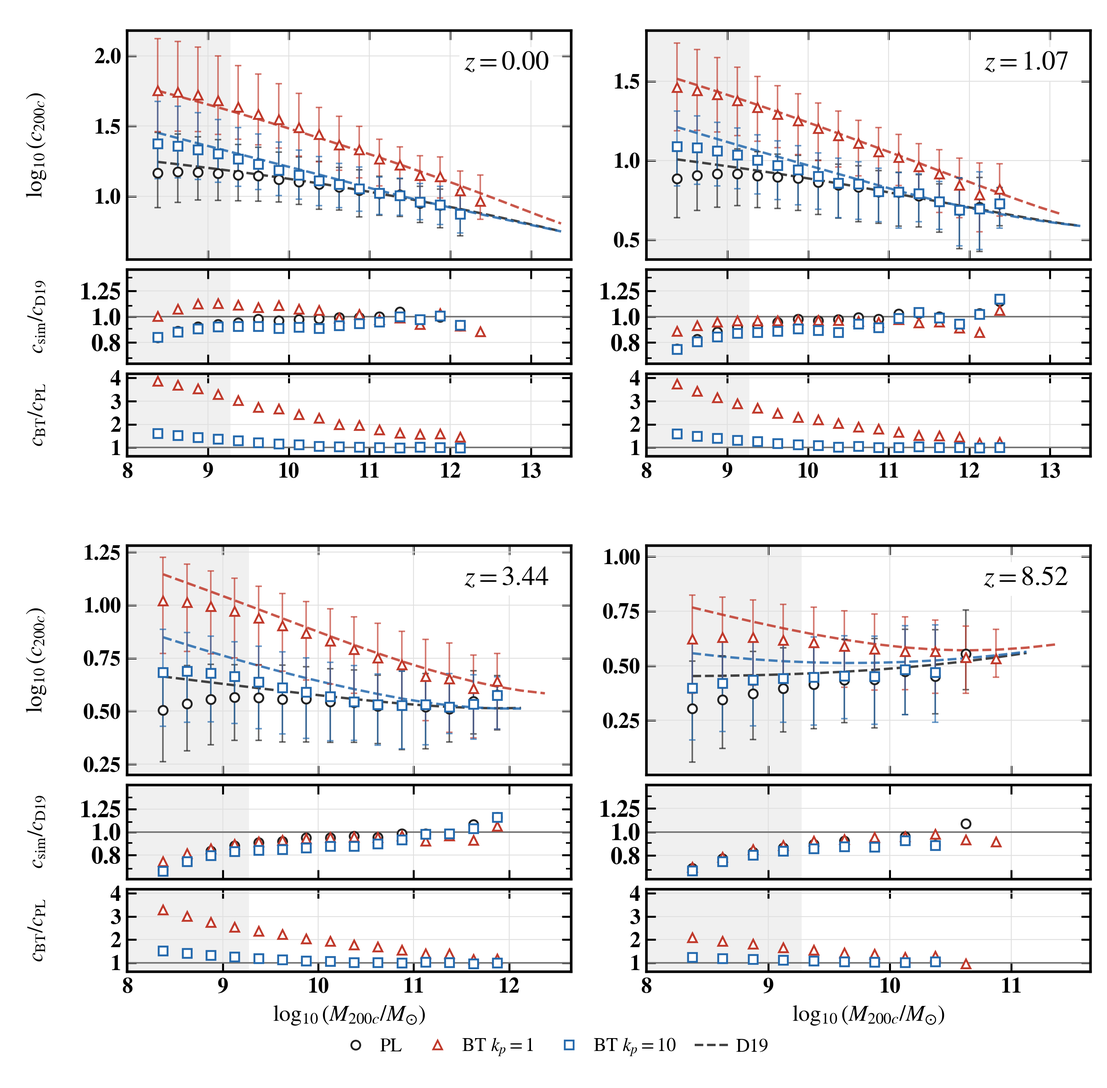
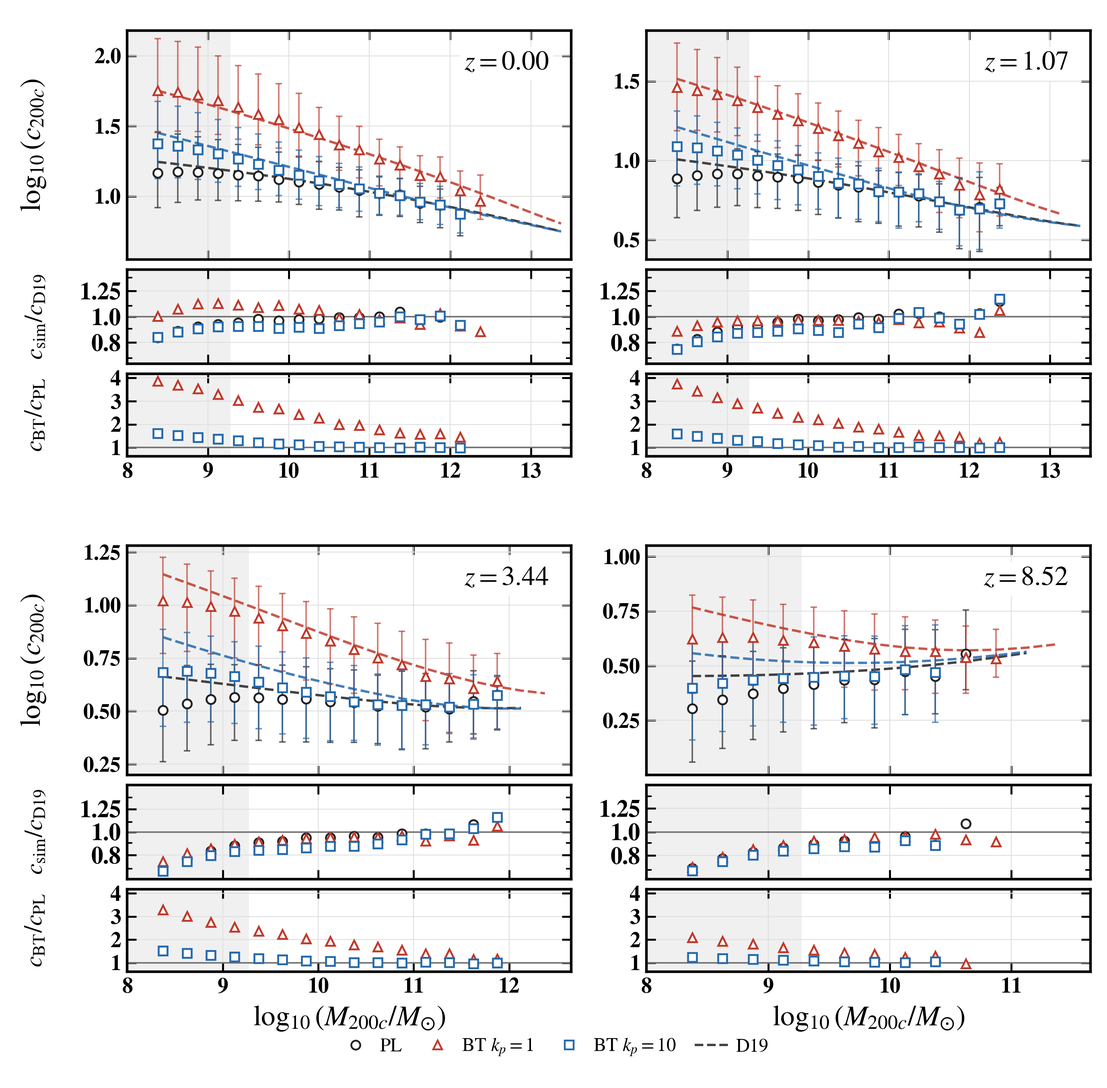
Clarify bias and formation-time errors and enlarge figure labels

diff --git a/main.tex b/main.tex
@@ -23,7 +23,7 @@
 \usepackage{multirow}
 \usepackage{xurl}
 \usepackage{xcolor}
-\DeclareRobustCommand{\change}[1]{#1}
+\DeclareRobustCommand{\change}[1]{\textcolor{blue}{#1}}
 \newcommand{\tabcell}[2]{\parbox[t]{#1}{\raggedright #2}}
 \usepackage{hyperref}
 \usepackage{orcidlink}
@@ -99,7 +99,7 @@
 
 % ===== Abstract ===== #
 \begin{abstract}
-The primordial power spectrum is well constrained on large scales but remains uncertain on small scales. We use dark-matter-only cosmological \(N\)-body simulations initialized with the same random phases to determine how enhanced small-scale power changes nonlinear structure formation. We compare a standard power-law (PL) model with two broken-power-law blue-tilted (BT) models whose spectra steepen above pivot wavenumbers \(k_p=1\) and \(10\,h\,{\rm Mpc}^{-1}\). We measure halo mass functions, \change{halo--matter bias,} assembly histories, radial density profiles, concentration--mass relations, and nonlinear matter power spectra. Enhanced small-scale power increases the abundance of low-mass halos at high redshift, lowers the bias of fixed-mass halos at high redshift, shifts halo assembly earlier, and increases the concentrations of low-mass halos. The \(k_p=1\,h\,{\rm Mpc}^{-1}\) model also produces denser resolved inner halo profiles. These effects are stronger in the \(k_p=1\,h\,{\rm Mpc}^{-1}\) model than in the \(k_p=10\,h\,{\rm Mpc}^{-1}\) model and weaken toward higher halo masses and lower redshifts. The nonlinear matter power enhancement grows toward higher redshift and higher wavenumber. Published mass-function, concentration, and mass-assembly prescriptions reproduce the broad trends, but their agreement with the simulations varies with redshift and halo mass. These dark-matter-only results can be used in studies that include baryonic physics and observational selection.
+The primordial power spectrum is well constrained on large scales but remains uncertain on small scales. We use dark-matter-only cosmological \(N\)-body simulations initialized with the same random phases to determine how enhanced small-scale power changes nonlinear structure formation. We compare a standard power-law (PL) model with two broken-power-law blue-tilted (BT) models whose spectra steepen above pivot wavenumbers \(k_p=1\) and \(10\,h\,{\rm Mpc}^{-1}\). We measure halo mass functions, \change{halo bias,} assembly histories, radial density profiles, concentration--mass relations, and nonlinear matter power spectra. Enhanced small-scale power increases the abundance of low-mass halos at high redshift, lowers the bias of fixed-mass halos at high redshift, shifts halo assembly earlier, and increases the concentrations of low-mass halos. The \(k_p=1\,h\,{\rm Mpc}^{-1}\) model also produces denser resolved inner halo profiles. These effects are stronger in the \(k_p=1\,h\,{\rm Mpc}^{-1}\) model than in the \(k_p=10\,h\,{\rm Mpc}^{-1}\) model and weaken toward higher halo masses and lower redshifts. The nonlinear matter power enhancement grows toward higher redshift and higher wavenumber. Published mass-function, concentration, and mass-assembly prescriptions reproduce the broad trends, but their agreement with the simulations varies with redshift and halo mass. These dark-matter-only results can be used in studies that include baryonic physics and observational selection.
 
 \end{abstract}
 
@@ -116,7 +116,7 @@ Small-scale enhancements of the primordial power spectrum arise in several class
 We use broken-power-law blue-tilted spectra to study how enhanced small-scale primordial power changes nonlinear structure formation. Here, ``blue-tilted'' (BT) refers specifically to a broken-power-law enhancement whose small-scale slope is steeper than the PL slope, following previous small-scale-power studies \citep[e.g.][]{Hirano15BlueTiltedPPS,Parashari23JWSTPPS,Hira24bluetilt,Tkac24BumpyPPS,deKruijf25DarkAges,Dekker25DwarfPPS,Wu25BT}.
 
 
-\change{We follow three dark-matter-only cosmological \(N\)-body models with matched initial phases to \(z=0\), comparing a standard power-law spectrum with two BT spectra. Sections~\ref{sec:theory} and \ref{sec:numerical} describe the spectra and simulations. In Sec.~\ref{sec:results}, we measure the halo mass function (HMF), halo--matter bias, assembly histories, radial density profiles, concentrations, and the nonlinear matter power spectrum. For the mass functions, concentrations, and assembly histories, we evaluate published prescriptions using each model's linear spectrum and the published parameters. Section~\ref{sec:discussion} discusses the physical trends, observational implications, and numerical limits.}
+\change{We follow three dark-matter-only cosmological \(N\)-body models with matched initial phases to \(z=0\), comparing a standard power-law spectrum with two BT spectra. Sections~\ref{sec:theory} and \ref{sec:numerical} describe the spectra and simulations. In Sec.~\ref{sec:results}, we measure the halo mass function (HMF), halo bias, assembly histories, radial density profiles, concentrations, and the nonlinear matter power spectrum. For the mass functions, concentrations, and assembly histories, we evaluate published prescriptions using each model's linear spectrum and the published parameters. Section~\ref{sec:discussion} discusses the physical trends, observational implications, and numerical limits.}
 
 \section{Power-Spectrum Models and Linear Matter Power}
 \label{sec:theory}
@@ -199,7 +199,7 @@ As an initial-condition consistency test, we compare the BT pivot scales with th
 
 
 
-\change{PL denotes the standard power-law primordial spectrum. Both BT models have \(m_s=1.5\), with \(k_p=1\,h\,{\rm Mpc}^{-1}\) for \BTKPone{} and \(k_p=10\,h\,{\rm Mpc}^{-1}\) for \BTKPten{}. We also use \(256\,h^{-1}{\rm Mpc}\) PL, \BTKPone{}, and \BTKPten{} runs for the halo--matter bias measurement. The power-spectrum measurements from these runs are available in the auxiliary data. Figure~\ref{fig:power_spectra_ratio_z0} uses the \(25\,h^{-1}{\rm Mpc}\) runs. The particle masses in Table~\ref{tab:simulation_parameters} are given in \(h^{-1}M_\odot\). For \(h=0.6736\), the particle mass in the \(25\,h^{-1}{\rm Mpc}\) runs is \(1.89\times10^6\,M_\odot\). Halo masses and comoving number densities in the mass-function analysis are given in \(M_\odot\) and \({\rm Mpc}^{-3}\), respectively. The additional PL runs used for resolution and volume tests are described in Appendix~\ref{app:fof_hmf_resolution}. Appendix~\ref{app:trusted_ranges} and Table~\ref{tab:trusted_ranges} list the ranges used for quantitative statements.}
+\change{PL denotes the standard power-law primordial spectrum. Both BT models have \(m_s=1.5\), with \(k_p=1\,h\,{\rm Mpc}^{-1}\) for \BTKPone{} and \(k_p=10\,h\,{\rm Mpc}^{-1}\) for \BTKPten{}. We also use \(256\,h^{-1}{\rm Mpc}\) PL, \BTKPone{}, and \BTKPten{} runs for the halo bias measurement. The power-spectrum measurements from these runs are available in the auxiliary data. Figure~\ref{fig:power_spectra_ratio_z0} uses the \(25\,h^{-1}{\rm Mpc}\) runs. The particle masses in Table~\ref{tab:simulation_parameters} are given in \(h^{-1}M_\odot\). For \(h=0.6736\), the particle mass in the \(25\,h^{-1}{\rm Mpc}\) runs is \(1.89\times10^6\,M_\odot\). Halo masses and comoving number densities in the mass-function analysis are given in \(M_\odot\) and \({\rm Mpc}^{-3}\), respectively. The additional PL runs used for resolution and volume tests are described in Appendix~\ref{app:fof_hmf_resolution}. Appendix~\ref{app:trusted_ranges} and Table~\ref{tab:trusted_ranges} list the ranges used for quantitative statements.}
 
 
 \begin{table*}[t]
@@ -280,9 +280,6 @@ We adopt the plotted catalog lower limit \(M_{\rm FOF}\ge10^8\,M_\odot\) listed 
 Within the resolved mass range, both blue-tilted models increase the low-mass FOF abundance relative to PL, with the largest enhancement in \BTKPone{}. The enhancement is largest at high redshift. For \BTKPone{}, the abundance ratio relative to PL is \(4.81\)--\(6.55\) over \(M_{\rm FOF}\simeq1.2\times10^9\)--\(1.2\times10^{10}\,M_\odot\) at \(z=8.52\). By \(z=0\), the ratio over the same mass range falls to \(1.42\)--\(1.48\). The BT/PL ratio decreases toward higher masses and lower redshifts.
 
 
-%We use the Reed et al. (2007) FOF fitting function as published, without refitting its multiplicity function. \revisionblue{For each model, \(\sigma(M,z)\) is computed from its own PL, \BTKPone{}, or \BTKPten{} linear matter power spectrum.}
-
-
 \begin{figure*}[tbp]
     \centering
     \includegraphics[width=\textwidth]{mass-function.png}
@@ -303,12 +300,12 @@ We quantify the agreement using the median simulation-to-model ratio across mass
     \label{fig:m200c_bocquet16_hmf}
 \end{figure*}
 
-\subsection{Halo--Matter Bias\label{subsec:halo_bias}}
+\subsection{Halo Bias\label{subsec:halo_bias}}
 
 \begin{figure*}[tbp]
     \centering
     \includegraphics[width=\textwidth]{halo-bias-soap-tinker10.pdf}
-    \caption{\change{Halo--matter bias of \textsc{HBT-HERONS} central halos binned by their \textsc{SOAP} masses \(M_{200m}\) at \(z=0\), \(1.07\), \(3.44\), and \(8.52\). Open circles show measurements from the \(256\,h^{-1}{\rm Mpc}\) boxes and open triangles show measurements from the \(25\,h^{-1}{\rm Mpc}\) boxes. Error bars show jackknife uncertainties obtained by omitting one independent Fourier mode at a time. The upper panels show measured bias and the Tinker et al. (2010) \protect\cite{Tinker2010HaloBias} prediction. The middle panels show \(b_{\rm BT}/b_{\rm PL}\), with measured ratios at the centers of mass bins shared by BT and PL in the same box. The lower panels show \(b_{\rm sim}/b_{\rm T10}-1\), with the prediction evaluated at each bin's median mass. Large-box points are included for all three models (PL, \BTKPone{}, and \BTKPten{}) through \(z=3.44\), while at \(z=8.52\) no mass bin in the \(256\,h^{-1}{\rm Mpc}\) box meets the \(\ge200\)-halo threshold.}}
+    \caption{\change{Halo bias of \textsc{HBT-HERONS} central halos binned by their \textsc{SOAP} masses \(M_{200m}\) at \(z=0\), \(1.07\), \(3.44\), and \(8.52\). Open circles show measurements from the \(256\,h^{-1}{\rm Mpc}\) boxes and open triangles show measurements from the \(25\,h^{-1}{\rm Mpc}\) boxes. Error bars show jackknife uncertainties obtained by omitting one independent Fourier mode at a time. The upper panels show measured bias and the Tinker et al. (2010) \protect\cite{Tinker2010HaloBias} prediction. The middle panels show \(b_{\rm BT}/b_{\rm PL}\), with measured ratios at the centers of mass bins shared by BT and PL in the same box. The lower panels show \(b_{\rm sim}/b_{\rm T10}-1\), with the prediction evaluated at each bin's median mass. Large-box points are included for all three models (PL, \BTKPone{}, and \BTKPten{}) through \(z=3.44\), while at \(z=8.52\) no mass bin in the \(256\,h^{-1}{\rm Mpc}\) box meets the \(\ge200\)-halo threshold.}}
     \label{fig:halo_bias}
 \end{figure*}
 
@@ -319,12 +316,18 @@ Halo bias is a measure of the excess clustering of halos over that of dark matte
                        {\sum_{\boldsymbol{k}} P_{\rm mm}(\boldsymbol{k})},
     \label{eq:halo_matter_bias}
 \end{equation}
-where the sums run over independent Fourier modes in the selected \(k\) interval. We use \(0.03\leq k/(h\,{\rm Mpc}^{-1})\leq0.15\) for the \(256\,h^{-1}{\rm Mpc}\) box and \(0.25\leq k/(h\,{\rm Mpc}^{-1})\leq0.60\) for the \(25\,h^{-1}{\rm Mpc}\) box. Each halo contains at least 100 dark matter particles, and each \(0.30\)-dex mass bin contains at least 200 halos. We plot the median mass in each bin. \change{Figure~\ref{fig:halo_bias} shows \textsc{HBT-HERONS} central halos \citep{Han2018HBTPlus,Victor25HBTHERONS}, using their \textsc{SOAP} mass \(M_{200m}\) enclosed at 200 times the mean matter density. Appendix~\ref{app:fof_bias} gives the corresponding FOF measurements.}
+where the sums run over independent Fourier modes in the selected \(k\) interval. \change{For the error bars on individual bias measurements, we recompute Eq.~\eqref{eq:halo_matter_bias} after omitting each mode in turn and take the jackknife standard error across these estimates. This measures mode sampling within a single simulation volume.} We use \(0.03\leq k/(h\,{\rm Mpc}^{-1})\leq0.15\) for the \(256\,h^{-1}{\rm Mpc}\) box and \(0.25\leq k/(h\,{\rm Mpc}^{-1})\leq0.60\) for the \(25\,h^{-1}{\rm Mpc}\) box. Each halo contains at least 100 dark matter particles, and each \(0.30\)-dex mass bin contains at least 200 halos. We plot the median mass in each bin. \change{Figure~\ref{fig:halo_bias} shows \textsc{HBT-HERONS} central halos \citep{Han2018HBTPlus,Victor25HBTHERONS}, using their \textsc{SOAP} mass \(M_{200m}\) enclosed at 200 times the mean matter density. Appendix~\ref{app:fof_bias} gives the corresponding FOF measurements.}
 
-\change{We evaluate the \citet{Tinker2010HaloBias} relation at \(\nu=\delta_{\rm c}/\sigma(M,z)\), with \(\delta_{\rm c}=1.686\), using the \(200\bar\rho_{\rm m}\) calibration. We compute \(\sigma(M,z)\) from each model's linear matter power spectrum with a spherical top-hat window whose comoving radius encloses mass \(M\) at the present mean matter density. Under peak-background split, enhanced small-scale power increases \(\sigma(M,z)\) and lowers the peak height \(\nu\) at fixed halo mass, reducing halo rarity and lowering the bias most strongly in \BTKPone{} at high redshift. At \(z=8.52\), the median \BTKPone{}/PL bias ratio is \(0.54\) across the five common mass bins in the smaller box. In the \(256\,h^{-1}{\rm Mpc}\) box over \(z=0\)--\(3.44\), \BTKPten{}/PL remains between \(0.988\) and \(1.009\) across all 23 paired bins, providing a large-scale consistency check because \(k_{\rm Ny}\simeq12.6\,h\,{\rm Mpc}^{-1}\) lies near \(k_p=10\,h\,{\rm Mpc}^{-1}\) and the resolved halo masses lie well above \(M_p(\BTKPten{})\). At \(z=0\), the \(256\,h^{-1}{\rm Mpc}\) \textsc{SOAP} central measurements lie \(10\%\)--\(18\%\) below Tinker10 over \(5\times10^{11}\lesssim M_{200m}/M_\odot\lesssim4\times10^{13}\) (before turning slightly positive near \(2.5\times10^{14}\,M_\odot\)). This offset is not a particle-resolution artifact (high-mass \(25\,h^{-1}{\rm Mpc}\) centrals with \(\sim10^5\) particles show the same negative offset), but reflects two physical and estimator effects: (i) \textsc{HBT-HERONS} classifies backsplash and outer-FOF halos near massive groups as satellites, excluding a strongly biased population (\(b\sim1.6\)) relative to distinct-SO halo finders on which Tinker10 was calibrated, and (ii) mode-count weighting in Eq.~\eqref{eq:halo_matter_bias} concentrates 73\% of the \(256\,h^{-1}{\rm Mpc}\) modes in \(0.10\le k/(h\,{\rm Mpc}^{-1})\le0.15\), where quasi-nonlinear scale dependence suppresses \(b_{\rm hm}(k)\) for low-\(\nu\) halos; similarly, in the \(25\,h^{-1}{\rm Mpc}\) box, \(0.25\le k\le0.60\,h\,{\rm Mpc}^{-1}\) spans only \(1.0\)--\(2.4\,k_{\rm f}\) (28 modes) and enters the nonlinear regime at \(z\le1.07\). Leave-one-mode-out jackknife uncertainties quantify within-box mode sampling and halo stochasticity under an independent-mode assumption; they omit cosmic realization variance, super-sample covariance, and residual scale dependence, and the uncertainty of the measured BT/PL ratios further depends on the covariance between the phase-matched runs. Comparisons at \(z=3.44\) and \(8.52\) extend beyond the Tinker calibration range of \(z\le2.5\).}
+\change{We evaluate the \citet{Tinker2010HaloBias} relation at \(\nu=\delta_{\rm c}/\sigma(M,z)\), with \(\delta_{\rm c}=1.686\), using the \(200\bar\rho_{\rm m}\) calibration. We compute \(\sigma(M,z)\) from each model's linear matter power spectrum with a spherical top-hat window whose comoving radius encloses mass \(M\) at the present mean matter density. }
+
+\change{Under peak-background split, enhanced small-scale power increases \(\sigma(M,z)\) and lowers the peak height \(\nu\) at fixed halo mass, reducing halo rarity and lowering the bias most strongly in \BTKPone{} at high redshift. At \(z=8.52\), the median \BTKPone{}/PL bias ratio is \(0.54\) across the five common mass bins in the smaller box. In the \(256\,h^{-1}{\rm Mpc}\) box over \(z=0\)--\(3.44\), \BTKPten{}/PL remains between \(0.988\) and \(1.009\) across all 23 paired bins. }
+
+\change{At \(z=0\), the \(256\,h^{-1}{\rm Mpc}\) \textsc{SOAP} central measurements lie \(10\%\)--\(18\%\) below Tinker10 over \(5\times10^{11}\lesssim M_{200m}/M_\odot\lesssim4\times10^{13}\) (before turning slightly positive near \(2.5\times10^{14}\,M_\odot\)). This offset is not a particle-resolution artifact (high-mass \(25\,h^{-1}{\rm Mpc}\) centrals with \(\sim10^5\) particles show the same negative offset), but reflects two physical and estimator effects: (i) \textsc{HBT-HERONS} classifies backsplash and outer-FOF halos near massive groups as satellites, excluding a strongly biased population (\(b\sim1.6\)) relative to distinct-SO halo finders on which Tinker10 was calibrated, and (ii) mode-count weighting in Eq.~\eqref{eq:halo_matter_bias} concentrates 73\% of the \(256\,h^{-1}{\rm Mpc}\) modes in \(0.10\le k/(h\,{\rm Mpc}^{-1})\le0.15\), where quasi-nonlinear scale dependence suppresses \(b_{\rm hm}(k)\) for low-\(\nu\) halos; similarly, in the \(25\,h^{-1}{\rm Mpc}\) box, \(0.25\le k\le0.60\,h\,{\rm Mpc}^{-1}\) spans only \(1.0\)--\(2.4\,k_{\rm f}\) (28 modes) and enters the nonlinear regime at \(z\le1.07\).} 
+
+%\change{Leave-one-mode-out jackknife uncertainties quantify within-box mode sampling and halo stochasticity under an independent-mode assumption; they omit cosmic realization variance, super-sample covariance, and residual scale dependence, and the uncertainty of the measured BT/PL ratios further depends on the covariance between the phase-matched runs. Comparisons at \(z=3.44\) and \(8.52\) extend beyond the Tinker calibration range of \(z\le2.5\).}
 
 \subsection{Half-Mass Redshift\label{subsub:HMR}}
-\change{The half-mass assembly redshift, \(z_{1/2}\), is the redshift at which a \(z=0\) halo first reaches half of its final FOF mass \(M_0\). We use the main progenitor branch defined in Sec.~\ref{subsec:halo_catalogs}. For each \(z=0\) FOF halo, we follow its persistent \textsc{HBT-HERONS} \texttt{TrackId} over 36 snapshots (0021--0056, extending above the \(z=19.41\) snapshot 0024 down to \(z=0\)) and record its Warren-corrected FOF mass. Pooling the final-mass bins with \(M_0\ge 10^9\,M_\odot\) separately for each model, we measure \(z_{1/2}\) for approximately \(98\%\) of the halos in each simulation. We determine \(z_{1/2}\) by linear interpolation between the first pair of consecutive snapshots in which the recorded FOF mass increases through \(M_0/2\). The same procedure is applied to PL, \BTKPone{}, and \BTKPten{}.}
+\change{The half-mass assembly redshift, \(z_{1/2}\), is the redshift at which a \(z=0\) halo first reaches half of its final FOF mass \(M_0\). We use the main progenitor branch defined in Sec.~\ref{subsec:halo_catalogs}. For each \(z=0\) FOF halo, we follow its persistent \textsc{HBT-HERONS} \texttt{TrackId} over 36 snapshots (0021--0056, extending above the \(z=19.41\) snapshot 0024 down to \(z=0\)) and record its Warren-corrected FOF mass. Pooling the final-mass bins with \(M_0\ge 10^9\,M_\odot\) separately for each model, we measure \(z_{1/2}\) for approximately \(98\%\) of the halos in each simulation. We determine \(z_{1/2}\) by linear interpolation between the first pair of consecutive snapshots in which the recorded FOF mass increases through \(M_0/2\). We estimate the uncertainty on the mean formation redshift from 4096 bootstrap resamples of the halos in each mass bin, separately for PL, \BTKPone{}, and \BTKPten{}.}
 
 We do not fill missing snapshots or force the recorded mass histories to increase monotonically. Temporary FOF bridging or splitting events can therefore remove a halo from the measurable sample or produce a temporary mass decrease.
 
@@ -345,15 +348,9 @@ For the 15 resolved PL bins spanning \(1.25\times10^9\le M_{\rm FOF}/M_\odot\le8
 
 \subsection{Median Mass-Assembly Histories\label{subsub:MAH}}
 
-%The half-mass redshift reduces each halo history to one number.
-
 Figure~\ref{fig:mass_assembly_history_correa} shows the median mass-assembly histories. We use \(M_0\) for the final FOF mass at the center of a selection window and \(M(z)\) for the corresponding main-progenitor FOF mass at redshift \(z\). We select halos at \(z=0\) in six Warren-corrected FOF mass windows with \(|\log_{10}[M_{\rm FOF}(z=0)/M_0]|\le0.1\). The windows are centered on \(M_0=10^9\), \(3\times10^9\), \(10^{10}\), \(3\times10^{10}\), \(10^{11}\), and \(3\times10^{11}\,M_\odot\). We follow the main progenitor of each selected halo through its persistent \texttt{TrackId} from \textsc{HBT-HERONS}. For visual clarity across the six mass windows, this comparison shows PL and \BTKPone{} (the intermediate \BTKPten{} model closely tracks PL at these masses).
 
-%\Tk{The paragragh is unclear: what is cumulative-maximum filter? ``Missing detections'' sounds odd.}
-
 At each snapshot, only halos with an identified main progenitor contribute to the median \(M_{\rm FOF}(z)\). We do not interpolate across snapshots in which a progenitor is not identified. The number of contributing halos therefore decreases with redshift. We restrict the quantitative comparison to \(M_0\ge10^9\,M_\odot\) and \(z\le6\); for PL at \(M_0=10^9\,M_\odot\), the detected fraction is \(90.3\%\) at \(z=5.50\) and drops to \(83.6\%\) at \(z=6.15\) (and \(60.5\%\) at \(z=7.65\)), whereas for \BTKPone{} it remains \(>99\%\) at \(z\ge5.5\). Consequently, conditional medians for PL near \(M_0=10^9\,M_\odot\) and \(z\sim6\) are biased upward by left-truncation survivorship near the 20-particle detection floor.
-
-%\Tk{cite  (Bond et al. 1991; Lacey \& Cole 1993) for EPS}
 
 \change{We compare these histories with the \citet{Correa2015MAHI} mass-assembly model. This model is based on the extended Press--Schechter (EPS) framework \citep{Bond1991ExcursionSet,LaceyCole1993MergerRates}.}
 
@@ -368,7 +365,6 @@ f(M_0)=\left[S(M_0/q)-S(M_0)\right]^{-1/2},
 where \(S(M)=\sigma^2(M)\) is the variance of the linear density contrast at \(z=0\), smoothed with a spherical top-hat filter. Thus \(\sigma(M)\) is the root-mean-square density contrast on mass scale \(M\). The filter radius encloses mass \(M\) at the present mean matter density. We compute this variance from the corresponding PL or \BTKPone{} linear matter power spectrum.
 
 The published mass-dependent relations for \(\widetilde z_{\rm f}\) and \(q\) are
-%\Tk{Need to say what are q; i.e. the numerical form of q.}
 \begin{equation}
 \begin{aligned}
 \widetilde z_{\rm f}&=-0.0064\left(\log_{10}\frac{M_0}{M_\odot}\right)^2
@@ -383,7 +379,7 @@ For the Correa-EPS curves, we use the Planck 2018 cosmology in Sec.~\ref{subsec:
 
 
 At fixed final FOF mass, both the simulations and the Correa-EPS calculation predict larger progenitor masses for \BTKPone{} than for PL. The difference increases with redshift, indicating earlier assembly in \BTKPone{}. With this fixed-parameter baseline, the Correa-EPS calculation lies closer to the simulated \BTKPone{} conditional medians than to PL, particularly near \(M_0=10^9\,M_\odot\) at \(z=6\) where PL suffers progenitor truncation. For \(10^9\le M_0/M_\odot\le10^{11}\), the maximum absolute difference \(\lvert M_{\rm sim}/M_{\rm Correa}-1\rvert\) at \(z=1,2,4,\) and \(6\) is \(46\%\) for PL and \(9\%\) for \BTKPone{}. At \(M_0=3\times10^{11}\,M_\odot\), the corresponding differences are \(23\%\) and \(16\%\), respectively.
-%\Tk{Mention that We also expect the results from the EPS formula: In BT, we have higher sigma, so lower f(M0), so slower exponential delay.}
+
 The same trend follows from Eqs.~(\ref{eq:correa2015_mah}) and (\ref{eq:correa2015_fm0}). The enhanced small-scale power in \BTKPone{} increases \(S(M_0/q)-S(M_0)\) and therefore reduces \(f(M_0)\). Since \(\ln[M(z)/M_0]=f(M_0)[a\ln(1+z)-z]\), a smaller \(f(M_0)\) causes \(M(z)/M_0\) to decrease more slowly with redshift.
 
 
@@ -472,9 +468,7 @@ A separate study (Wu, Chan, Lange, \& Huang, submitted) examines the Diemer \& J
 
 Enhancing the primordial power spectrum above \(k_p\) increases the amplitude of the initial density fluctuations on those scales. Regions with larger overdensities collapse earlier. \change{At high redshift, the HMF enhancement is strongest below the characteristic mass \(M_p\) in Eq.~\eqref{eq:pivot_mass}.} At later times, the HMF difference decreases, while the assembly histories and central densities remain different from PL.
 
-\BTKPone{} produces the larger change because its lower pivot enhances a broader range of resolved modes. The higher pivot of \BTKPten{} restricts the added power to smaller scales, so the differences from PL decrease more rapidly with halo mass. Under peak-background split, increasing \(\sigma(M,z)\) reduces the peak height \(\nu=\delta_{\rm c}/\sigma(M,z)\) at fixed mass, lowering halo rarity and reducing the halo--matter bias most strongly in \BTKPone{} at high redshift. Nonlinear growth and mergers further reduce the abundance contrast toward lower redshift.
-
-%The matter power spectrum measures fluctuations in the full matter distribution, whereas the HMF and concentration describe halo abundance and internal structure.
+\BTKPone{} produces the larger change because its lower pivot enhances a broader range of resolved modes. The higher pivot of \BTKPten{} restricts the added power to smaller scales, so the differences from PL decrease more rapidly with halo mass. Under peak-background split, increasing \(\sigma(M,z)\) reduces the peak height \(\nu=\delta_{\rm c}/\sigma(M,z)\) at fixed mass, lowering halo rarity and reducing the halo bias most strongly in \BTKPone{} at high redshift. Nonlinear growth and mergers further reduce the abundance contrast toward lower redshift.
 
 \subsection{Relation to Previous Work}
 
@@ -516,7 +510,7 @@ The main conclusions are as follows:
 
     The median differences between the simulations and analytic models of Reed et al. (2007) \citep{Reed_2007} and Bocquet et al. (2016) \citep{Bocquet2016} are below \(8\%\) at \(z=0\) and \(3.44\) and reach \(32\%\) at \(z=8.52\), while diverging substantially in the extrapolated \(z=10.52\)--\(19.41\) regime (up to \(+107\%\) above Reed07 and down to \(-67\%\) below B16 in PL).
 
-    \item \change{At \(z=8.52\) in the \(25\,h^{-1}{\rm Mpc}\) box, the median \BTKPone{}/PL halo--matter bias ratio across the five common mass bins is \(0.54\) for SOAP \(M_{200m}\) centrals, whereas in the \(256\,h^{-1}{\rm Mpc}\) box at \(z=0\)--\(3.44\), \BTKPten{}/PL remains \(0.988\)--\(1.009\) across all 23 paired bins (Sec.~\ref{subsec:halo_bias}).}
+    \item \change{At \(z=8.52\) in the \(25\,h^{-1}{\rm Mpc}\) box, the median \BTKPone{}/PL halo bias ratio across the five common mass bins is \(0.54\) for SOAP \(M_{200m}\) centrals, whereas in the \(256\,h^{-1}{\rm Mpc}\) box at \(z=0\)--\(3.44\), \BTKPten{}/PL remains \(0.988\)--\(1.009\) across all 23 paired bins (Sec.~\ref{subsec:halo_bias}).}
 
     \item \change{Enhanced small-scale primordial power shifts halo assembly earlier (Sec.~\ref{subsub:HMR}). For halos with a present-day halo mass \(M_0\simeq1.25\times10^9\,M_\odot\), the half-mass assembly redshift \(z_{1/2}\) increases from \(2.28\) in PL to \(4.24\) in \BTKPone{} and \(2.61\) in \BTKPten{}. The full mass-assembly histories also show earlier assembly in \BTKPone{} than in PL (Sec.~\ref{subsub:MAH}).}
 
@@ -537,7 +531,7 @@ Future work should test other enhanced primordial spectra, including localized G
 \section*{Data Availability}
 
 
-\change{The reduced measurements, compact halo catalogs, and figure reproduction materials are available in the Zenodo v1.2.0 release\footnote{\url{https://doi.org/10.5281/zenodo.24455135}}. The accompanying GitHub repository\footnote{\url{https://github.com/HainaHuang729/nonlinear-evolution-of-cosmological-structures-with-enhanced-primordial-power-spectrum}} contains the manuscript source, analysis scripts, and reduced measurements, including the halo--matter bias table and the updated radial profiles. The particle snapshots and full \textsc{HBT-HERONS}/\textsc{SOAP} catalogs are excluded because of their size.}
+\change{The reduced measurements, compact halo catalogs, and figure reproduction materials are available in the Zenodo v1.2.0 release\footnote{\url{https://doi.org/10.5281/zenodo.24455135}}. The accompanying GitHub repository\footnote{\url{https://github.com/HainaHuang729/nonlinear-evolution-of-cosmological-structures-with-enhanced-primordial-power-spectrum}} contains the manuscript source, analysis scripts, and reduced measurements, including the halo bias table and the updated radial profiles. The particle snapshots and full \textsc{HBT-HERONS}/\textsc{SOAP} catalogs are excluded because of their size.}
 
 \begin{acknowledgments}
 
@@ -573,7 +567,7 @@ Table~\ref{tab:trusted_ranges} summarizes the mass, redshift, radius, and wavenu
 \midrule
 \tabcell{0.18\textwidth}{FOF halo mass function} & \tabcell{0.17\textwidth}{\(M_{\rm FOF}\)} & \tabcell{0.20\textwidth}{\(M_{\rm FOF}\ge10^8\,M_\odot\)} & \tabcell{0.36\textwidth}{About 50 particles in the fiducial runs; the gray band marks the interval down to the nominal 20-particle threshold. Appendix~\ref{app:fof_hmf_resolution} gives the PL resolution and volume test.} \\
 \tabcell{0.18\textwidth}{\(M_{200c}\) mass-function comparison} & \tabcell{0.17\textwidth}{\(M_{200c}\)} & \tabcell{0.20\textwidth}{\(M_{200c}\ge2.0\times10^8\,M_\odot\)} & \tabcell{0.36\textwidth}{SOAP \texttt{SO/200\_crit} catalogs require a per-halo dark matter particle count \(N_{\rm DM}\ge100\), close to \(1.9\times10^8\,M_\odot\).} \\
-\tabcell{0.18\textwidth}{\change{Halo--matter bias}} & \tabcell{0.17\textwidth}{\change{\(b_{\rm hm}\), \(M_{\rm FOF}\) or \(M_{200m}\)}} & \tabcell{0.20\textwidth}{\change{\(k=0.25\)--\(0.60\) (25 box) and \(0.03\)--\(0.15\) (256 box), in \(h\,{\rm Mpc}^{-1}\)}} & \tabcell{0.36\textwidth}{\change{At least 100 particles per halo and 200 halos per 0.30-dex bin. The lowest retained bin edges are about \(3.7\times10^8\,M_\odot\) (25 box) and \(3.7\times10^{11}\,M_\odot\) (256 box). See Sec.~\ref{subsec:halo_bias}.}} \\
+\tabcell{0.18\textwidth}{\change{Halo bias}} & \tabcell{0.17\textwidth}{\change{\(b_{\rm hm}\), \(M_{\rm FOF}\) or \(M_{200m}\)}} & \tabcell{0.20\textwidth}{\change{\(k=0.25\)--\(0.60\) (25 box) and \(0.03\)--\(0.15\) (256 box), in \(h\,{\rm Mpc}^{-1}\)}} & \tabcell{0.36\textwidth}{\change{At least 100 particles per halo and 200 halos per 0.30-dex bin. The lowest retained bin edges are about \(3.7\times10^8\,M_\odot\) (25 box) and \(3.7\times10^{11}\,M_\odot\) (256 box). See Sec.~\ref{subsec:halo_bias}.}} \\
 \tabcell{0.18\textwidth}{Half-mass assembly} & \tabcell{0.17\textwidth}{\(M_{\rm FOF}(z=0)\), \(z_{1/2}\)} & \tabcell{0.20\textwidth}{Quoted trends use \(M_{\rm FOF}(z=0)\gtrsim10^9\,M_\odot\)} & \tabcell{0.36\textwidth}{Each halo is followed through its \texttt{TrackId}. Missing snapshots are not filled, and the recorded FOF mass history is not forced to increase monotonically.} \\
 \tabcell{0.18\textwidth}{Median mass-assembly history} & \tabcell{0.17\textwidth}{\(M_{\rm FOF}(z=0)\), median \(M_{\rm FOF}(z)\)} & \tabcell{0.20\textwidth}{Quantitative use: \(M_0\ge10^9\,M_\odot\), \(z\le6\)} & \tabcell{0.36\textwidth}{Halos are selected at \(z=0\) and followed through \texttt{TrackId}. Only finite positive detections enter each median. At least 90 per cent of each selected sample is detected up to \(z=5.50\) (\(83.6\%\) for PL at \(z=6.15\)).} \\
 \tabcell{0.18\textwidth}{Direct radial halo density profiles} & \tabcell{0.17\textwidth}{Particle radial profiles in \(M_{200m}\) bins} & \tabcell{0.20\textwidth}{Plotted bins use \(10^{10}\)--\(10^{11.5}\,M_\odot\)} & \tabcell{0.36\textwidth}{Profiles are measured directly from simulation particles and compared with NFW profiles whose concentrations are set by the Diemer \& Joyce (2019) relation; the gray region marks radii that do not satisfy the plotted convergence criterion.} \\
@@ -641,7 +635,7 @@ The \(256^3\) same-volume run and the \(50\,h^{-1}{\rm Mpc}\), \(512^3\) volume 
 \end{figure*}
 
 
-\section{FOF Halo--Matter Bias}
+\section{FOF Halo Bias}
 \label{app:fof_bias}
 
 \change{We apply the estimator and selection cuts in Sec.~\ref{subsec:halo_bias} to the FOF group catalogs. Figure~\ref{fig:halo_bias_fof} compares these measurements with the \citet{ShethTormen1999Bias} prediction, using the FOF catalog mass to compute \(\nu\). At \(z=8.52\) only one FOF bin in the larger box passes the cuts, for \BTKPone{}. Across 170 mass bins shared by the two catalogs at fixed redshift, model, and box size, the median absolute fractional residual is \(6.19\%\) for \textsc{SOAP} compared with Tinker et al. (2010) and \(7.83\%\) for FOF compared with Sheth--Tormen (1999). At \(z=8.52\), the 17 shared bins all come from the smaller box, and the corresponding residuals are \(8.26\%\) and \(2.96\%\). These comparisons involve different halo mass definitions and reference relations.}
@@ -649,7 +643,7 @@ The \(256^3\) same-volume run and the \(50\,h^{-1}{\rm Mpc}\), \(512^3\) volume 
 \begin{figure*}[tbp]
     \centering
     \includegraphics[width=\textwidth]{halo-bias-fof-st99.pdf}
-    \caption{\change{Halo--matter bias of FOF groups at the redshifts shown in Fig.~\ref{fig:halo_bias}. Open circles and triangles show the \(256\) and \(25\,h^{-1}{\rm Mpc}\) boxes, respectively. Dashed curves show the Sheth--Tormen (1999) prediction. The middle panels show BT/PL bias ratios in shared mass bins within each box, together with the theoretical ratio curves. The lower panels show \(b_{\rm sim}/b_{\rm ST99}-1\) using each bin's median FOF mass. Error bars are jackknife uncertainties obtained by omitting one independent Fourier mode at a time.}}
+    \caption{\change{Halo bias of FOF groups at the redshifts shown in Fig.~\ref{fig:halo_bias}. Open circles and triangles show the \(256\) and \(25\,h^{-1}{\rm Mpc}\) boxes, respectively. Dashed curves show the Sheth--Tormen (1999) prediction. The middle panels show BT/PL bias ratios in shared mass bins within each box, together with the theoretical ratio curves. The lower panels show \(b_{\rm sim}/b_{\rm ST99}-1\) using each bin's median FOF mass. Error bars are jackknife uncertainties obtained by omitting one independent Fourier mode at a time.}}
     \label{fig:halo_bias_fof}
 \end{figure*}
 
@@ -660,6 +654,5 @@ The \(256^3\) same-volume run and the \(50\,h^{-1}{\rm Mpc}\), \(512^3\) volume 
 \bibliographystyle{apsrev4-1-JHEPfix}
 \bibliography{main}
 
-%\printbibliography
 
 \end{document}

diff --git a/public_data/scripts/plot_concentration_relaxation.py b/public_data/scripts/plot_concentration_relaxation.py
@@ -263,6 +263,8 @@ def overview(
         concentration_groups = (("unrelaxed", False), ("relaxed", True))
         ratio_groups = (("all", False), ("relaxed", True))
 
+    axis_title_size = 16 if prescription == "D19" else plt.rcParams["axes.labelsize"]
+    ratio_title_size = 14 if prescription == "D19" else 12
     fig = plt.figure(figsize=(8.6, 8.45))
     grid = fig.add_gridspec(
         2,
@@ -394,13 +396,13 @@ def overview(
         # Keep x-tick labels on both rows because panels have distinct upper mass limits.
         frac.tick_params(labelbottom=True)
         if row == 1:
-            frac.set_xlabel(MASS_LABEL)
+            frac.set_xlabel(MASS_LABEL, fontsize=axis_title_size)
         if column == 0:
-            top.set_ylabel(CONC_LABEL)
+            top.set_ylabel(CONC_LABEL, fontsize=axis_title_size)
             denominator = r"I21,rel" if prescription == "I21R" else prescription
-            ratio.set_ylabel(rf"$c_{{\rm sim}}/c_{{\rm {denominator}}}$", fontsize=12)
+            ratio.set_ylabel(rf"$c_{{\rm sim}}/c_{{\rm {denominator}}}$", fontsize=ratio_title_size)
             bottom_label = r"$c_{\rm BT}/c_{\rm PL}$" if bt_pl else r"$f_{\rm relaxed}$"
-            frac.set_ylabel(bottom_label, fontsize=12)
+            frac.set_ylabel(bottom_label, fontsize=ratio_title_size)
             for ax in (top, ratio, frac):
                 ax.yaxis.set_label_coords(-0.18, 0.5)
 

diff --git a/public_data/ps25-kp10-z0-20261026/plot_ps25_btpl.py b/public_data/ps25-kp10-z0-20261026/plot_ps25_btpl.py
@@ -18,6 +18,7 @@ from cosmology_plot_style import (
 )
 
 apply_journal_style()
+plt.rcParams.update({"axes.labelsize": 13, "legend.fontsize": 12})
 parser=argparse.ArgumentParser(description=__doc__)
 parser.add_argument('--output',type=Path,default=DATA.parents[1]/'power-spectrum-btpl.png')
 parser.add_argument('--ratio-scale', choices=['linear', 'log', 'symlog-difference'], default='symlog-difference',
@@ -38,8 +39,8 @@ ticks=[[1,1.1,1.2],[1,1.2,1.4,1.6],[1,1.5,2],[1,2,3,4,5]]
 
 colors=[MODEL_COLORS[name] for name in ['PL','BT1','BT10']]
 fig=plt.figure(figsize=(7.8,6.45))
-outer=fig.add_gridspec(2,2,left=.095,right=.982,bottom=.083,top=.925,
-                      hspace=.15,wspace=.23)
+outer=fig.add_gridspec(2,2,left=.108,right=.982,bottom=.083,top=.925,
+                      hspace=.15,wspace=.32)
 pairs=[]
 for i,z in enumerate(zs):
     sub=outer[i//2,i%2].subgridspec(2,1,height_ratios=[2.7,1],hspace=.045)
